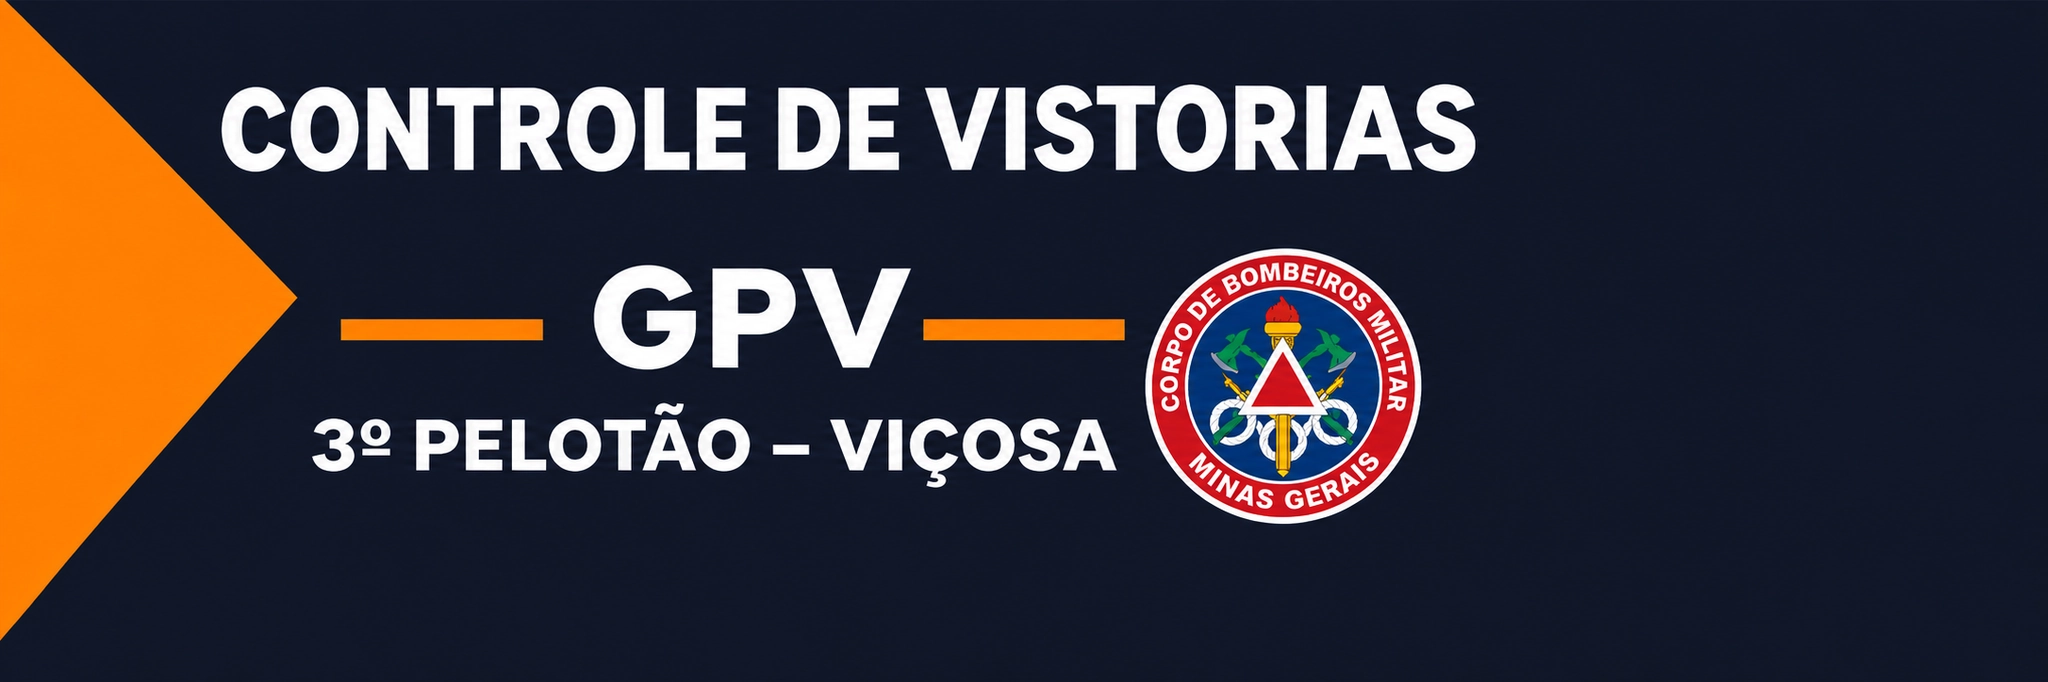
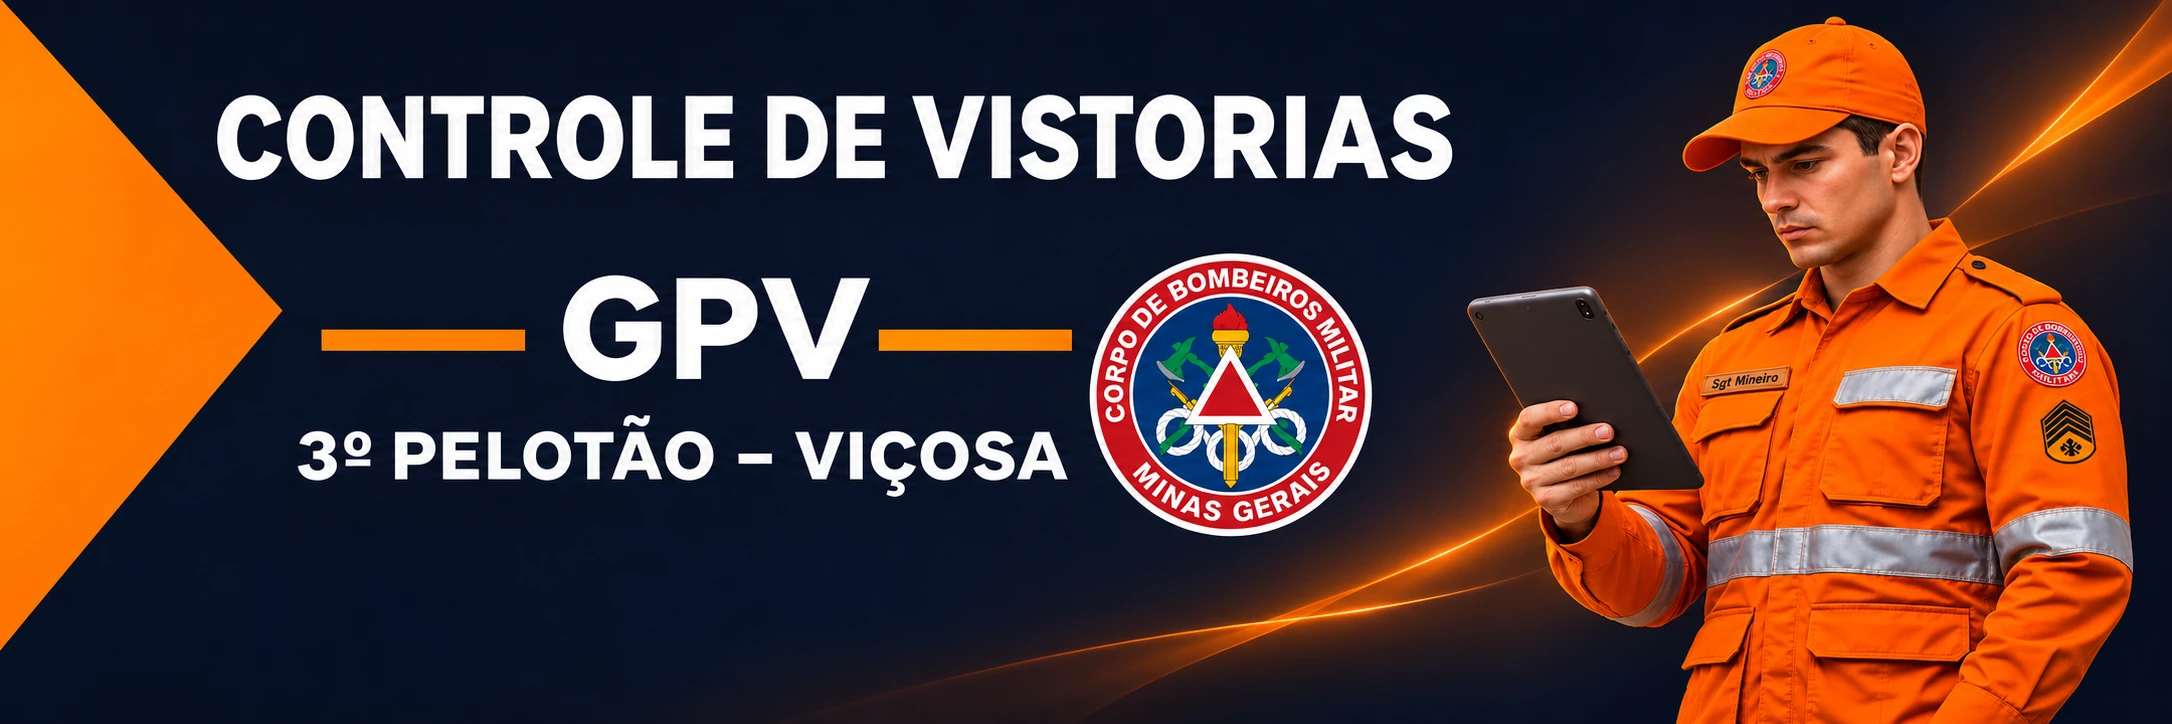
Add files via upload

diff --git a/index.html b/index.html
@@ -18,8 +18,8 @@
   <meta property="og:title" content="App do Vistoriador">
   <meta property="og:description" content="Aplicativo de apoio a vistoria, com suporte offline.">
   <meta property="og:url" content="https://gpvvicosa.github.io/controle-fiscalizatorio-gpv/">
-  <meta property="og:image" content="https://gpvvicosa.github.io/controle-fiscalizatorio-gpv/assets/miniatura-app-vistoriador-ch.jpg?v=23.9.99lb">
-  <meta property="og:image:secure_url" content="https://gpvvicosa.github.io/controle-fiscalizatorio-gpv/assets/miniatura-app-vistoriador-ch.jpg?v=23.9.99lb">
+  <meta property="og:image" content="https://gpvvicosa.github.io/controle-fiscalizatorio-gpv/assets/miniatura-app-vistoriador-ch.jpg?v=23.9.99lc">
+  <meta property="og:image:secure_url" content="https://gpvvicosa.github.io/controle-fiscalizatorio-gpv/assets/miniatura-app-vistoriador-ch.jpg?v=23.9.99lc">
   <meta property="og:image:type" content="image/jpeg">
   <meta property="og:image:width" content="1200">
   <meta property="og:image:height" content="675">
@@ -29,7 +29,7 @@
   <meta name="twitter:card" content="summary_large_image">
   <meta name="twitter:title" content="App do Vistoriador">
   <meta name="twitter:description" content="Aplicativo de apoio a vistoria, com suporte offline.">
-  <meta name="twitter:image" content="https://gpvvicosa.github.io/controle-fiscalizatorio-gpv/assets/miniatura-app-vistoriador-ch.jpg?v=23.9.99lb">
+  <meta name="twitter:image" content="https://gpvvicosa.github.io/controle-fiscalizatorio-gpv/assets/miniatura-app-vistoriador-ch.jpg?v=23.9.99lc">
 
   <link rel="canonical" href="https://gpvvicosa.github.io/controle-fiscalizatorio-gpv/">
   <title>App do Vistoriador</title>
@@ -44,11 +44,11 @@
       } catch (e) {}
     })();
   </script>
-  <link rel="manifest" href="app-vistoriador-ck.webmanifest?v=23.9.99lb">
-  <link rel="preload" as="image" href="assets/splash-app-vistoriador.webp?v=23.9.99lb" media="(max-width: 899px)" fetchpriority="high">
-  <link rel="preload" as="image" href="assets/splash-app-vistoriador-desktop.webp?v=23.9.99lb" media="(min-width: 900px)" fetchpriority="high">
-  <link rel="icon" type="image/png" sizes="192x192" href="assets/app-vistoriador-icon-192-ck.png?v=23.9.99lb">
-  <link rel="apple-touch-icon" href="assets/app-vistoriador-icon-192-ck.png?v=23.9.99lb">
+  <link rel="manifest" href="app-vistoriador-ck.webmanifest?v=23.9.99lc">
+  <link rel="preload" as="image" href="assets/splash-app-vistoriador.webp?v=23.9.99lc" media="(max-width: 899px)" fetchpriority="high">
+  <link rel="preload" as="image" href="assets/splash-app-vistoriador-desktop.webp?v=23.9.99lc" media="(min-width: 900px)" fetchpriority="high">
+  <link rel="icon" type="image/png" sizes="192x192" href="assets/app-vistoriador-icon-192-ck.png?v=23.9.99lc">
+  <link rel="apple-touch-icon" href="assets/app-vistoriador-icon-192-ck.png?v=23.9.99lc">
   <style id="gpv-critical-boot">
     html,body{margin:0;min-height:100%;font-family:Arial,Helvetica,sans-serif}
     html,body{background:#efe6dc}
@@ -56,7 +56,7 @@
     *,*::before,*::after{box-sizing:border-box}
     img{max-width:100%;height:auto}
     .hero-banner{display:block;width:100%;height:auto}
-    .auth-gate{display:none;position:fixed;inset:0;z-index:10000;align-items:center;justify-content:center;padding:18px;background:linear-gradient(180deg,rgba(45,3,5,.82),rgba(45,3,5,.96)),url("assets/splash-app-vistoriador.webp?v=23.9.99lb") center 28%/cover no-repeat}
+    .auth-gate{display:none;position:fixed;inset:0;z-index:10000;align-items:center;justify-content:center;padding:18px;background:linear-gradient(180deg,rgba(45,3,5,.82),rgba(45,3,5,.96)),url("assets/splash-app-vistoriador.webp?v=23.9.99lc") center 28%/cover no-repeat}
     .auth-gate.show{display:flex}
     .auth-card{width:min(440px,100%);max-height:94vh;overflow:auto;background:linear-gradient(180deg,rgba(76,10,12,.96),rgba(45,5,7,.98));border:1px solid rgba(246,190,55,.38);border-radius:24px;padding:24px 20px;text-align:center;color:#fff}
     .auth-logo-wrap{width:104px;height:104px;margin:0 auto 12px;border-radius:25px;overflow:hidden}
@@ -70,7 +70,7 @@
     .gpv-splash-status #loadingSubtext[hidden]{display:none!important}
     html.gpv-aux-entry body:not(.gpv-aux-auth-visible):not(.aux-notifications-mode)>*:not(#loadingOverlay):not(#authGate):not(#appStatus){visibility:hidden!important}
   </style>
-  <link rel="stylesheet" href="styles.css?v=23.9.99lb">
+  <link rel="stylesheet" href="styles.css?v=23.9.99lc">
   <style id="gpv-jz-mobile-choice-layer">
     /* V23.9.99jz — o seletor móvel precisa ficar acima dos modais de cadastro/ficha. */
     @media (max-width: 820px), (pointer: coarse) {
@@ -2361,7 +2361,7 @@
 
 
   <style id="gpv-kl-identidade-institucional">
-    /* V23.9.99lb: padronização visual sem alterar semântica operacional.
+    /* V23.9.99lc: padronização visual sem alterar semântica operacional.
        Vermelho de multa/atrasos, verde de regularização e alertas continuam intactos. */
     :root {
       --gpv-kl-grafite:#252c35;
@@ -2783,7 +2783,7 @@
 
 
   <style id="gpv-km-topo-icones-maiores">
-    /* V23.9.99lb — ampliação moderada dos ícones e badges do topo no desktop,
+    /* V23.9.99lc — ampliação moderada dos ícones e badges do topo no desktop,
        preservando a identidade KL e sem alterar a lógica dos botões. */
     @media (min-width:1181px) {
       body.records-mode .topbar.app-header .dashboard-header-actions {
@@ -2839,7 +2839,7 @@
 
 
   <style id="gpv-kn-topo-reposicionamento-desktop">
-    /* V23.9.99lb — reposiciona o título e o bombeiro no topo desktop,
+    /* V23.9.99lc — reposiciona o título e o bombeiro no topo desktop,
        reduzindo o vazio visual entre eles e afastando a legenda da esquerda. */
     @media (min-width:1181px) {
       body.records-mode .topbar.app-header .topbar-inner {
@@ -2899,7 +2899,7 @@
 
 
   <style id="gpv-ko-proporcoes-desktop">
-    /* V23.9.99lb — triângulo mais curto e bombeiro próximo ao centro;
+    /* V23.9.99lc — triângulo mais curto e bombeiro próximo ao centro;
        somente telas de computador. Nenhuma ação ou dado é modificado. */
     @media(min-width:1181px){
       body.records-mode .topbar.app-header .gpv-kh-header-banner::before{
@@ -2931,15 +2931,16 @@
     }
   </style>
 
-  <link rel="stylesheet" href="assets/gpv-identidade-kp.css?v=23.9.99lb">
-  <link rel="stylesheet" href="assets/gpv-inicio-ks.css?v=23.9.99lb">
-  <link rel="stylesheet" href="assets/gpv-refino-kt.css?v=23.9.99lb">
-  <link rel="stylesheet" href="assets/gpv-refino-ku.css?v=23.9.99lb">
-  <link rel="stylesheet" href="assets/gpv-saudacao-kw.css?v=23.9.99lb">
-  <link rel="stylesheet" href="assets/gpv-saudacao-kx.css?v=23.9.99lb">
-  <link rel="stylesheet" href="assets/gpv-saudacao-ky.css?v=23.9.99lb">
-  <link rel="stylesheet" href="assets/gpv-saudacao-kz.css?v=23.9.99lb">
-  <link rel="stylesheet" href="assets/gpv-banner-lb.css?v=23.9.99lb">
+  <link rel="stylesheet" href="assets/gpv-identidade-kp.css?v=23.9.99lc">
+  <link rel="stylesheet" href="assets/gpv-inicio-ks.css?v=23.9.99lc">
+  <link rel="stylesheet" href="assets/gpv-refino-kt.css?v=23.9.99lc">
+  <link rel="stylesheet" href="assets/gpv-refino-ku.css?v=23.9.99lc">
+  <link rel="stylesheet" href="assets/gpv-saudacao-kw.css?v=23.9.99lc">
+  <link rel="stylesheet" href="assets/gpv-saudacao-kx.css?v=23.9.99lc">
+  <link rel="stylesheet" href="assets/gpv-saudacao-ky.css?v=23.9.99lc">
+  <link rel="stylesheet" href="assets/gpv-saudacao-kz.css?v=23.9.99lc">
+  <link rel="stylesheet" href="assets/gpv-banner-lb.css?v=23.9.99lc">
+  <link rel="stylesheet" href="assets/gpv-banner-lc.css?v=23.9.99lc">
 </head>
 <body>
 <div id="appStatus" hidden aria-live="polite"></div>
@@ -2948,7 +2949,7 @@
   <div class="auth-gate" id="authGate" aria-hidden="false">
     <section class="auth-card" role="dialog" aria-modal="true" aria-labelledby="authTitle">
       <div class="auth-logo-wrap" aria-hidden="true">
-        <img src="assets/app-vistoriador-icon-512-ck.png?v=23.9.99lb" width="512" height="512" alt="">
+        <img src="assets/app-vistoriador-icon-512-ck.png?v=23.9.99lc" width="512" height="512" alt="">
       </div>
       <span class="auth-kicker">Controle de Vistorias</span>
       <h1 id="authTitle">App do Vistoriador</h1>
@@ -3008,7 +3009,7 @@
   <header class="topbar app-header">
     <div class="topbar-inner">
       <div class="brand-mark" aria-hidden="true">
-        <img class="brand-form-logo" src="assets/app-vistoriador-icon-192-ck.png?v=23.9.99lb" alt="">
+        <img class="brand-form-logo" src="assets/app-vistoriador-icon-192-ck.png?v=23.9.99lc" alt="">
         <img class="brand-dashboard-logo" src="assets/logo-cbmmg.png" alt="">
       </div>
 
@@ -3030,14 +3031,14 @@
       <!-- Banner aprovado integrado à faixa grafite em telas grandes; duplicata
            visual da imagem móvel, sem alterar links, botões ou suas permissões. -->
       <div class="gpv-kh-header-banner" aria-label="Controle de Vistorias — GPV — 3º Pelotão Viçosa">
-        <img class="gpv-kk-legacy-banner" src="assets/cabecalho.webp?v=23.9.99lb" width="2173" height="724" alt="" decoding="async">
+        <img class="gpv-kk-legacy-banner" src="assets/cabecalho.webp?v=23.9.99lc" width="2173" height="724" alt="" decoding="async">
         <!-- Identidade composta na própria faixa grafite; o bombeiro é uma imagem transparente independente. -->
         <div class="gpv-kk-identity">
           <span class="gpv-kk-kicker"><span class="gpv-kk-kicker-bar" aria-hidden="true"></span>GPV · PREVENÇÃO E VISTORIA</span>
           <strong>CONTROLE DE VISTORIAS</strong>
           <span class="gpv-kk-subtitle"><b>GPV</b><span class="gpv-kk-subtitle-separator" aria-hidden="true"></span>3º PELOTÃO — VIÇOSA</span>
         </div>
-        <img class="gpv-kk-bombeiro" src="assets/bombeiro-topo.webp?v=23.9.99lb" width="680" height="728" alt="" aria-hidden="true" decoding="async">
+        <img class="gpv-kk-bombeiro" src="assets/bombeiro-topo.webp?v=23.9.99lc" width="680" height="728" alt="" aria-hidden="true" decoding="async">
       </div>
 
       <div class="dashboard-header-actions" aria-label="Ações do painel">
@@ -3800,8 +3801,8 @@
 
   <main class="page">
     <section class="hero gpv-kg-hero" aria-label="Controle de Vistorias — GPV Viçosa">
-      <img class="hero-banner" src="assets/cabecalho.webp?v=23.9.99lb" width="2173" height="724" loading="eager" decoding="async" alt="Controle de Vistorias — GPV, 3º Pelotão Viçosa">
-      <img class="gpv-lb-hero-bombeiro" src="assets/bombeiro-topo.webp?v=23.9.99lb" alt="" aria-hidden="true" loading="eager" decoding="async" width="680" height="728">
+      <img class="hero-banner" src="assets/cabecalho.webp?v=23.9.99lc" width="2173" height="724" loading="eager" decoding="async" alt="Controle de Vistorias — GPV, 3º Pelotão Viçosa">
+      <img class="gpv-lb-hero-bombeiro" src="assets/bombeiro-topo.webp?v=23.9.99lc" alt="" aria-hidden="true" loading="eager" decoding="async" width="680" height="728">
     </section>
 
     <nav class="app-view-nav" aria-label="Áreas do aplicativo">
@@ -3911,7 +3912,7 @@
 
       <div class="dashboard-operational-alerts gpv-operational-overview" aria-label="Resumo operacional do dia">
         <button type="button" class="ddu-summary-card dashboard-ddu-summary-card" id="dduSummaryCard" hidden aria-label="Abrir DDU pendentes para vistoria">
-          <span class="ddu-summary-brand" aria-hidden="true"><img src="assets/logo-ddu-181.webp?v=23.9.99lb" alt=""></span>
+          <span class="ddu-summary-brand" aria-hidden="true"><img src="assets/logo-ddu-181.webp?v=23.9.99lc" alt=""></span>
           <span class="ddu-summary-copy"><strong>DDU aguardando vistoria</strong><small id="dduSummaryText">Carregando demandas...</small></span>
           <span class="ddu-summary-count" id="dduSummaryCount">—</span>
         </button>
@@ -4178,7 +4179,7 @@
           <div class="operational-shortcuts-grid" aria-label="Pendências operacionais">
             <div class="programmed-summary-row ddu-vistoria-summary-row" id="dduVistoriaSummaryRow" hidden>
               <button type="button" class="ddu-summary-card vistoria-ddu-summary-card" id="dduVistoriaSummaryCard" aria-label="Abrir DDU pendentes para vistoria">
-                <span class="ddu-summary-brand" aria-hidden="true"><img src="assets/logo-ddu-181.webp?v=23.9.99lb" alt=""></span>
+                <span class="ddu-summary-brand" aria-hidden="true"><img src="assets/logo-ddu-181.webp?v=23.9.99lc" alt=""></span>
                 <span class="ddu-summary-copy"><strong>DDU aguardando vistoria</strong><small id="dduVistoriaSummaryText">Carregando demandas...</small></span>
                 <span class="ddu-summary-count" id="dduVistoriaSummaryCount">—</span>
               </button>
@@ -5832,7 +5833,7 @@
 
   <div class="review-overlay" id="dduRegisterModal" hidden>
     <div class="review-card prepare-modal-card" role="dialog" aria-modal="true" aria-labelledby="dduRegisterTitle">
-      <div class="review-head ddu-register-head"><div class="ddu-register-title-wrap"><span class="ddu-register-brand" aria-hidden="true"><img src="assets/logo-ddu-181.webp?v=23.9.99lb" alt=""></span><div><h2 id="dduRegisterTitle">Cadastrar DDU</h2><p>Demanda recebida pelo DDU — Disque Denúncia Unificado. Após salvar, o DDU ficará disponível para toda a equipe do GPV até a conclusão da vistoria.</p></div></div><button class="icon-btn" id="dduRegisterCloseBtn" type="button">×</button></div>
+      <div class="review-head ddu-register-head"><div class="ddu-register-title-wrap"><span class="ddu-register-brand" aria-hidden="true"><img src="assets/logo-ddu-181.webp?v=23.9.99lc" alt=""></span><div><h2 id="dduRegisterTitle">Cadastrar DDU</h2><p>Demanda recebida pelo DDU — Disque Denúncia Unificado. Após salvar, o DDU ficará disponível para toda a equipe do GPV até a conclusão da vistoria.</p></div></div><button class="icon-btn" id="dduRegisterCloseBtn" type="button">×</button></div>
       <div class="review-body"><div class="grid prepare-grid">
         <div class="field"><label for="dduNumero">Nº / identificação do DDU</label><input id="dduNumero" autocomplete="off"></div>
         <div class="field"><label for="dduRecebimento">Data de recebimento</label><input id="dduRecebimento" type="date"></div>
@@ -5913,7 +5914,7 @@
   <div class="review-overlay" id="dduListModal" hidden>
     <div class="review-card ddu-list-card" role="dialog" aria-modal="true" aria-labelledby="dduListTitle">
       <div class="review-head ddu-list-head">
-        <div class="ddu-list-title-wrap"><span class="ddu-list-title-brand" aria-hidden="true"><img src="assets/logo-ddu-181.webp?v=23.9.99lb" alt=""></span><div><h2 id="dduListTitle">DDU — Disque Denúncia Unificado</h2><small>Demandas compartilhadas pela equipe do GPV • 181</small></div></div>
+        <div class="ddu-list-title-wrap"><span class="ddu-list-title-brand" aria-hidden="true"><img src="assets/logo-ddu-181.webp?v=23.9.99lc" alt=""></span><div><h2 id="dduListTitle">DDU — Disque Denúncia Unificado</h2><small>Demandas compartilhadas pela equipe do GPV • 181</small></div></div>
         <button class="icon-btn" id="dduListCloseBtn" type="button" aria-label="Fechar DDU">×</button>
       </div>
       <div class="review-body ddu-list-body"><div id="dduListStatus" class="ddu-list-status"></div><div id="dduList" class="ddu-list"></div></div>
@@ -5983,7 +5984,7 @@
     <section class="review-card registered-inspection-detail-card" role="dialog" aria-modal="true" aria-labelledby="registeredInspectionDetailTitle">
       <div class="review-head registered-inspection-detail-head">
         <div class="registered-inspection-detail-title-wrap">
-          <span class="registered-inspection-detail-brand" id="registeredInspectionDetailBrand" aria-hidden="true" hidden><img src="assets/logo-ddu-181.webp?v=23.9.99lb" alt=""></span>
+          <span class="registered-inspection-detail-brand" id="registeredInspectionDetailBrand" aria-hidden="true" hidden><img src="assets/logo-ddu-181.webp?v=23.9.99lc" alt=""></span>
           <div>
             <div class="registered-inspection-detail-eyebrow-row">
               <span class="registered-inspection-detail-kicker" id="registeredInspectionDetailKicker">Vistoria cadastrada</span>
@@ -6174,7 +6175,7 @@
           <span class="useful-link-arrow" aria-hidden="true">↗</span>
         </a>
         <a class="useful-link-card" data-link-tone="blue" href="https://web.sids.mg.gov.br/ddu/#/dashboard" target="_blank" rel="noopener noreferrer">
-          <span class="useful-link-icon useful-link-ddu-brand" aria-hidden="true"><img src="assets/logo-ddu-181.webp?v=23.9.99lb" alt=""></span>
+          <span class="useful-link-icon useful-link-ddu-brand" aria-hidden="true"><img src="assets/logo-ddu-181.webp?v=23.9.99lc" alt=""></span>
           <span><strong>DDU</strong><small>Painel e consultas operacionais</small></span>
           <span class="useful-link-arrow" aria-hidden="true">↗</span>
         </a>
@@ -6515,13 +6516,13 @@
     <picture class="gpv-splash-picture" aria-hidden="true">
       <source
         media="(min-width: 900px)"
-        srcset="assets/splash-app-vistoriador-desktop.webp?v=23.9.99lb"
+        srcset="assets/splash-app-vistoriador-desktop.webp?v=23.9.99lc"
         width="1672"
         height="941"
       >
       <img
         class="gpv-splash-art"
-        src="assets/splash-app-vistoriador.webp?v=23.9.99lb"
+        src="assets/splash-app-vistoriador.webp?v=23.9.99lc"
         alt=""
         width="941"
         height="1672"
@@ -6685,10 +6686,10 @@
       <button id="gpvUpdateLaterBtn" type="button">Depois</button>
     </div>
   </aside>
-  <script src="config.js?v=23.9.99lb"></script>
-  <script src="ocupacoes.js?v=23.9.99lb"></script>
-  <script src="notificacoes-infoscip.js?v=23.9.99lb"></script>
-  <script src="app.js?v=23.9.99lb"></script>
+  <script src="config.js?v=23.9.99lc"></script>
+  <script src="ocupacoes.js?v=23.9.99lc"></script>
+  <script src="notificacoes-infoscip.js?v=23.9.99lc"></script>
+  <script src="app.js?v=23.9.99lc"></script>
 
 </body>
 </html>

diff --git a/sw.js b/sw.js
@@ -1,5 +1,6 @@
-// V23.9.99lb — restaura shell KZ e atualiza bombeiro transparente do banner em desktop e mobile.
-// V23.9.99lb — animacao visual leve de ate 9,2s, sem espera adicional nem alteracao de logica.
+// V23.9.99lc — renovação do banner único responsivo; ativação e dados offline preservados.
+// V23.9.99lc — restaura shell KZ e atualiza bombeiro transparente do banner em desktop e mobile.
+// V23.9.99lc — animacao visual leve de ate 9,2s, sem espera adicional nem alteracao de logica.
 // V23.9.99ky — texto flutuante sobre a foto; mensagens e sincronizacao inalteradas.
 // V23.9.99kx — visual da saudacao com foto natural e legenda responsiva; ciclo operacional intocado.
 // V23.9.99kw — fundos dedicados da saudação e animação visual, sem alteração de ativação do PWA.
@@ -59,9 +60,9 @@
 // V23.9.99hm — atualizações descobertas após a abertura ficam em segundo plano até a próxima abertura ou ação manual.
 // V23.9.99hl — shell da abertura confiável com saudação e continuidade visual dos registros recentes.
 // V23.9.99hk — shell do rollback controlado das Metas para a rotina estável HG com backend HK.
-const CACHE_NAME = 'gpv-vistorias-shell-20261106-v23-9-99-lb-corrige-la-banner';
+const CACHE_NAME = 'gpv-vistorias-shell-20261106-v23-9-99-lc-banner-unico';
 const RUNTIME_CACHE_NAME = 'gpv-vistorias-runtime-documentos-v1';
-const VERSION = '23.9.99lb';
+const VERSION = '23.9.99lc';
 
 // V23.9.99hj — restaura o contrato estável de consulta das Metas através do gateway; backend HI preservado.
 // V23.9.99hi — novo shell publica revalidação das Metas e backend HI para Eventos declaratórios.
@@ -83,6 +84,7 @@ const CORE_SHELL = [
   `./assets/gpv-saudacao-ky.css?v=${VERSION}`,
   `./assets/gpv-saudacao-kz.css?v=${VERSION}`,
   `./assets/gpv-banner-lb.css?v=${VERSION}`,
+  `./assets/gpv-banner-lc.css?v=${VERSION}`,
   `./assets/abertura-saudacao-mobile-kx.webp?v=${VERSION}`,
   `./assets/abertura-saudacao-desktop-kx.webp?v=${VERSION}`,
   `./assets/abertura-saudacao-mobile-kw.webp?v=${VERSION}`,

diff --git a/assets/gpv-banner-lc.css b/assets/gpv-banner-lc.css
@@ -1,0 +1,54 @@
+/* GPV V23.9.99lc — banner integral aprovado, sem componentes duplicados.
+   A imagem já contém título, emblema e bombeiro; as camadas de composição
+   anteriores permanecem no DOM apenas por compatibilidade. Nenhuma regra
+   operacional, de atualização, de saudação ou de permissões é alterada. */
+
+/* Tela principal, celular e tablet: exibir exclusivamente o banner completo. */
+.hero.gpv-kg-hero::after,
+body.records-mode .hero.gpv-kg-hero::after {
+  display: none !important;
+  content: none !important;
+}
+.hero.gpv-kg-hero .gpv-lb-hero-bombeiro,
+body.records-mode .hero.gpv-kg-hero .gpv-lb-hero-bombeiro {
+  display: none !important;
+}
+.hero.gpv-kg-hero .hero-banner,
+body.records-mode .hero.gpv-kg-hero .hero-banner {
+  display: block !important;
+  width: 100% !important;
+  height: auto !important;
+  object-fit: contain !important;
+}
+
+/* Desktop: usar a arte inteira no espaço do cabeçalho, sem duplicar textos ou militar. */
+@media (min-width: 1181px) {
+  body.records-mode .topbar.app-header .gpv-kh-header-banner {
+    position: relative !important;
+    isolation: isolate !important;
+  }
+  body.records-mode .topbar.app-header .gpv-kh-header-banner::before,
+  body.records-mode .topbar.app-header .gpv-kh-header-banner::after {
+    display: none !important;
+    content: none !important;
+  }
+  body.records-mode .topbar.app-header .gpv-kh-header-banner .gpv-kk-identity,
+  body.records-mode .topbar.app-header .gpv-kh-header-banner .gpv-kk-bombeiro {
+    display: none !important;
+  }
+  body.records-mode .topbar.app-header .gpv-kh-header-banner .gpv-kk-legacy-banner {
+    display: block !important;
+    position: absolute !important;
+    inset: 0 !important;
+    width: 100% !important;
+    height: 100% !important;
+    max-width: 100% !important;
+    max-height: 100% !important;
+    aspect-ratio: auto !important;
+    object-fit: contain !important;
+    object-position: center !important;
+    margin: 0 !important;
+    opacity: 1 !important;
+    transform: none !important;
+  }
+}

diff --git a/app.js b/app.js
@@ -1,4 +1,5 @@
-// V23.9.99lb — hotfix da LA: recupera saudação KZ e troca bombeiro do banner sem alterar regras operacionais.
+// V23.9.99lc — cabeçalho único com nova imagem aprovada; operações mantidas da LB.
+// V23.9.99lc — hotfix da LA: recupera saudação KZ e troca bombeiro do banner sem alterar regras operacionais.
 // V23.9.99kp — identidade interna unificada por CSS; lógica operacional KO preservada.
 // V23.9.99ko — ajuste visual proporcional do topo desktop; operação da KN preservada.
 // V23.9.99kn — identidade GPV e rolagem da janela Programadas; regras operacionais KK preservadas.
@@ -83,8 +84,8 @@
       const AUTH_SHARED_DEVICE_STORAGE = 'gpvVistoriasDispositivoCompartilhadoV1';
       const AUTH_LIMITED_SESSION_HOURS = 10;
       const AUTH_CLIENT_VERSION = 'bm-v1';
-      const APP_VERSION = '23.9.99lb';
-      const APP_VERSION_DATE = '05/11/2026';
+      const APP_VERSION = '23.9.99lc';
+      const APP_VERSION_DATE = '06/11/2026';
       const appBuildInfo = document.getElementById('appBuildInfo');
       if (appBuildInfo) appBuildInfo.textContent = `App do Vistoriador • V${APP_VERSION} • ${APP_VERSION_DATE}`;
       // V23.9.99gw — estabilização: retomada menos agressiva, configuração sincronizada por janela e cache documental sob demanda.
